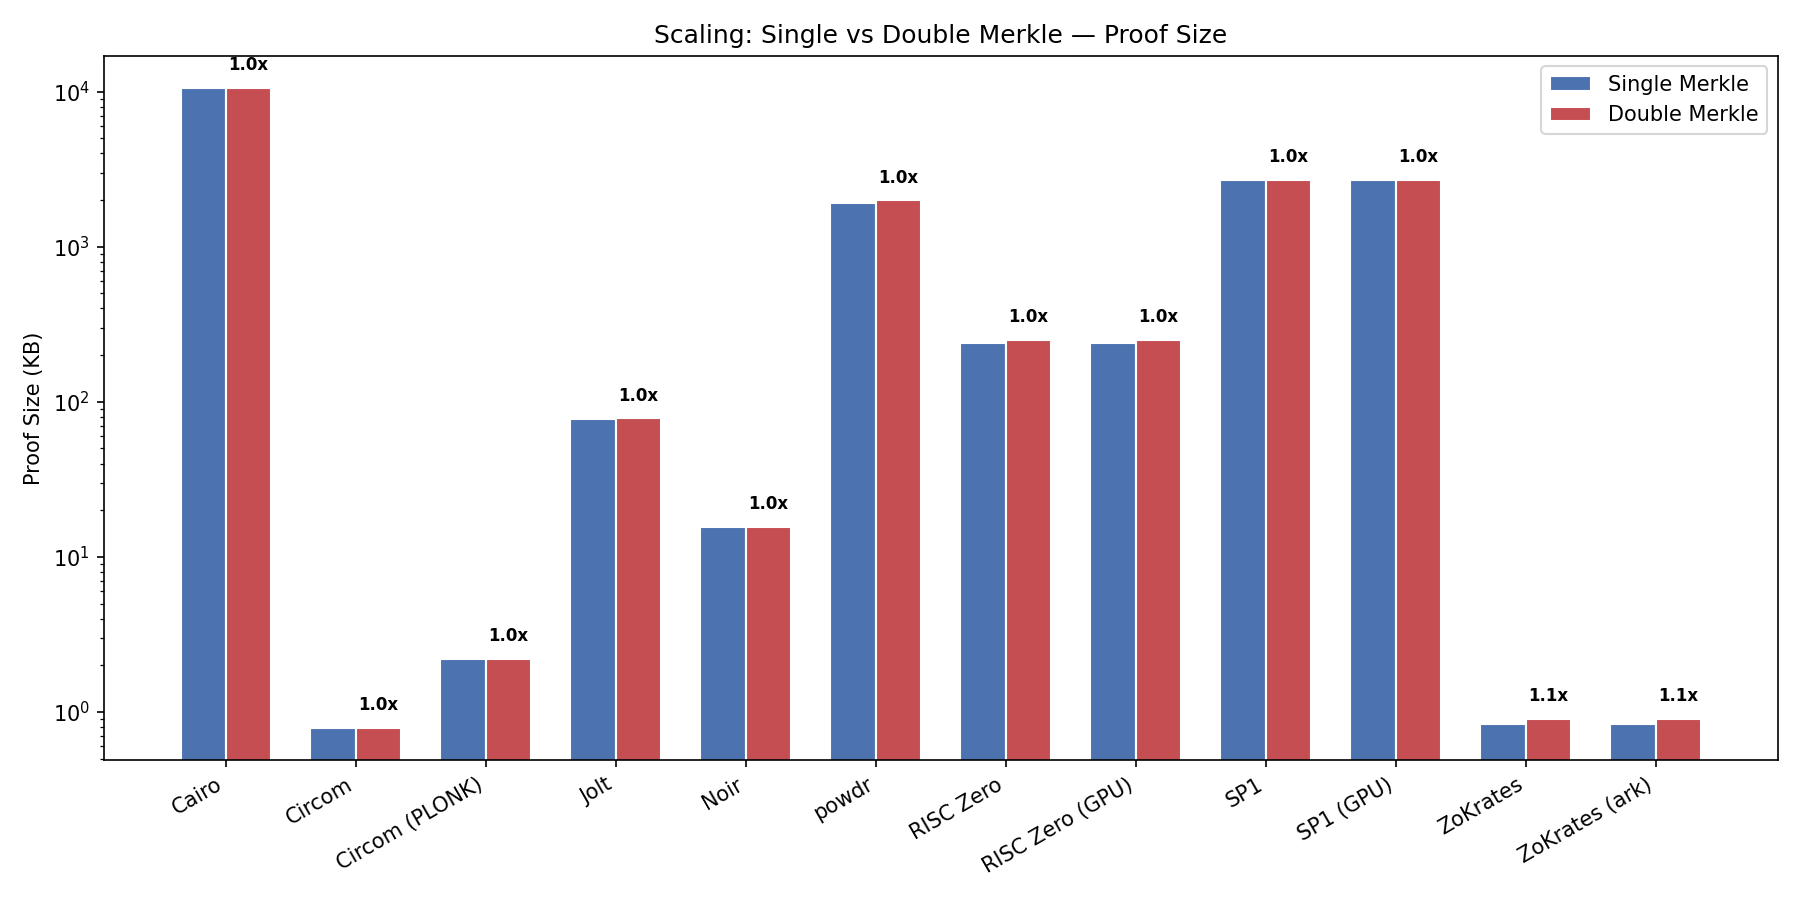
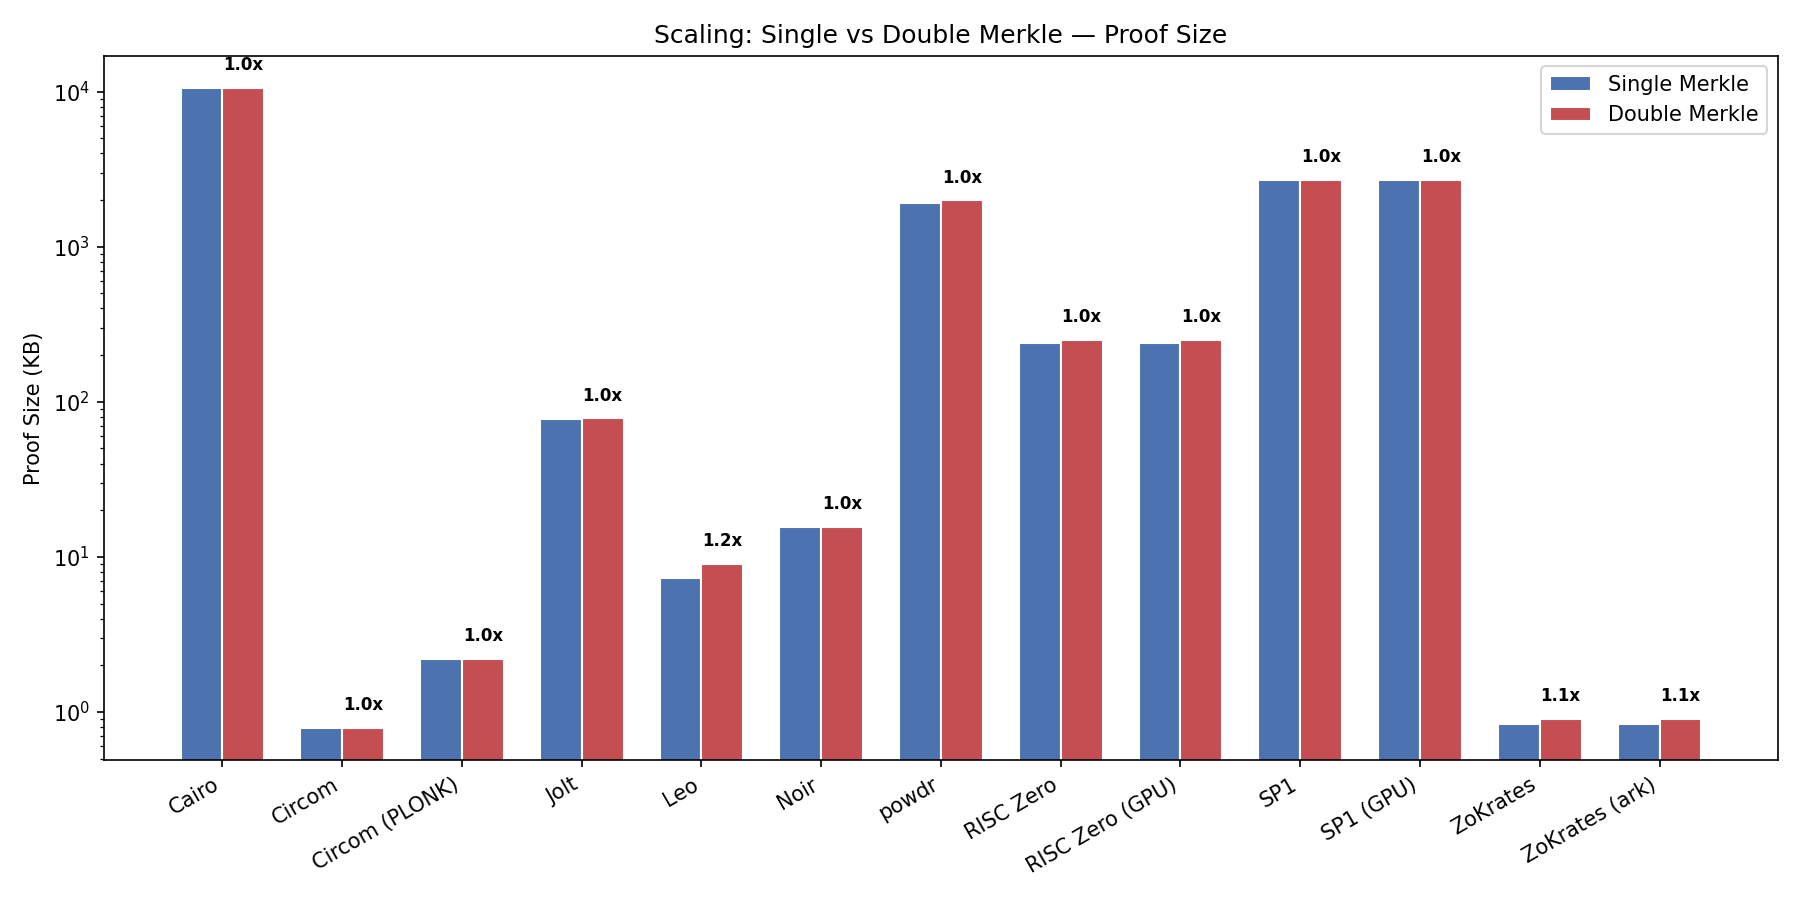
Add Leo (2x) double Merkle benchmark: 5.2s, 991 MB, 9.0 KB proof

diff --git a/benchmarks/benchmarks.py b/benchmarks/benchmarks.py
@@ -185,6 +185,31 @@ FRAMEWORKS = [
         proof_files=["build/transaction.execution.json"],
     ),
     Framework(
+        name="leo_double",
+        display="Leo (2x)",
+        proving_system="Marlin (snarkVM)",
+        workdir="leo/doubleMerkle",
+        variant="double",
+        bench_cmd=(
+            'env PRIVATE_KEY="APrivateKey1zkp8CZNn3yeCseEtxuVPbDCwSyhGW6yZKUYKfgXmcpoGPWH" '
+            "leo execute --network testnet "
+            '--endpoint "http://localhost:3030" --consensus-version 2 --offline --yes '
+            "--save ./build/ "
+            "verify "
+            "3795873241443991455451735146226102458893119113405484212358614283425718189900field "
+            "42field 3u32 "
+            "5032677853915026442484505200337051980545600190313243825534151256332463055896field "
+            "2025782052806597445336394462093422610260230542964192141256089645210002703802field "
+            "6518303460776629079511004668974420229885492538691518135386352722012076854807field "
+            "3795873241443991455451735146226102458893119113405484212358614283425718189900field "
+            "42field 3u32 "
+            "5032677853915026442484505200337051980545600190313243825534151256332463055896field "
+            "2025782052806597445336394462093422610260230542964192141256089645210002703802field "
[1 lines of base64/hex data omitted]
+        ),
+        proof_files=["build/transaction.execution.json"],
+    ),
+    Framework(
         name="risc0",
         display="RISC Zero",
         proving_system="STARK (FRI)",

diff --git a/README.md b/README.md
@@ -83,6 +83,7 @@ Measured on AMD Ryzen 9 5900X (24 threads, 32 GB RAM) with 2× NVIDIA RTX 3090. 
 | Circom (2x) | Groth16 (snarkjs) | 518 MB | 0.49 s | 806 B |
 | **RISC Zero GPU (2x)** | **STARK (FRI, CUDA)** | **394 MB** | **1.1 s** | **250.5 KB** |
 | Circom PLONK (2x) | PLONK (snarkjs) | 924 MB | 3.1 s | 2.2 KB |
+| Leo (2x) | Marlin (snarkVM) | 991 MB | 5.2 s | 9.0 KB |
 | Jolt (2x) | Lasso (Dory PCS) | 347 MB | 6.3 s | 78.4 KB |
 | SP1 GPU (2x) | STARK (Plonky3, CUDA) | 117 MB | 11.5 s | 2.6 MB |
 | Cairo (2x) | STARK (Stwo) | 14,064 MB | 16.3 s | 10.3 MB |
